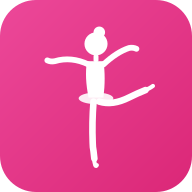
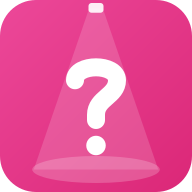
chore(fix): loading after logging in

diff --git a/src/hooks/useLiveTracker.js b/src/hooks/useLiveTracker.js
@@ -4,7 +4,7 @@ import {
   collection, query, where, getDocs, doc, setDoc, onSnapshot
 } from 'firebase/firestore';
 
-export function useLiveTracker(orgId, selectedShowId) {
+export function useLiveTracker(orgId, selectedShowId, enabled = true) {
   const [recitalData, setRecitalData] = useState(null);
   const [currentAct, setCurrentAct] = useState({ number: null, title: '', isTracking: false });
   const [loading, setLoading] = useState(true);
@@ -20,6 +20,19 @@ export function useLiveTracker(orgId, selectedShowId) {
       setRecitalData(null);
       setLoading(false);
       actsCache.current = {};
+      return;
+    }
+
+    // Firestore rules now gate shows/acts reads behind `request.auth != null`.
+    // Subscribing before sign-in completes gets a permission-denied that
+    // onSnapshot never recovers from (the [orgId] dep doesn't re-run on login),
+    // stranding the UI on an infinite spinner. `enabled` (auth-ready) holds the
+    // subscription until the user is authenticated; clearing it on logout drops
+    // the previous studio's data so it can't leak into a re-login.
+    if (!enabled) {
+      setRecitalData(null);
+      actsCache.current = {};
+      setLoading(true);
       return;
     }
 
@@ -109,10 +122,16 @@ export function useLiveTracker(orgId, selectedShowId) {
       } finally {
         setLoading(false);
       }
+    }, (err) => {
+      // Listener rejected (e.g. permission-denied before any snapshot). Without
+      // this handler the success callback never fires and `loading` stays true
+      // forever — the infinite-spinner bug. Resolve loading so the UI can render.
+      console.error("Firestore Program subscription error:", err);
+      setLoading(false);
     });
 
     return () => unsubShows();
-  }, [orgId]);
+  }, [orgId, enabled]);
 
   // 2. Listen for "Now Performing" status for the specific show
   useEffect(() => {
@@ -138,6 +157,9 @@ export function useLiveTracker(orgId, selectedShowId) {
         title: act ? act.title : 'Act not found',
         isTracking: statusData.is_tracking || false
       });
+    }, (err) => {
+      // Non-critical: a rejected status listener just leaves currentAct stale.
+      console.warn("Firestore Status subscription error:", err?.message || err);
     });
 
     return () => unsubStatus();

diff --git a/src/components/BrandMark.jsx b/src/components/BrandMark.jsx
@@ -1,0 +1,39 @@
+import React from 'react';
+
+// Brand mark — the "What Number Are We On?" spotlight question-mark logo.
+// Single in-app source of truth for the logo; keep in sync with public/favicon.svg.
+// Path-based (no fonts) so it rasterizes identically everywhere. Size via
+// className (e.g. "w-20 h-20"); the rounded corners come from the SVG itself.
+export default function BrandMark({ className = '', title = 'What Number Are We On?' }) {
+  return (
+    <svg
+      viewBox="0 0 512 512"
+      className={className}
+      role="img"
+      aria-label={title}
+      xmlns="http://www.w3.org/2000/svg"
+    >
+      <defs>
+        <linearGradient id="brandMarkBg" x1="0%" y1="0%" x2="100%" y2="100%">
+          <stop offset="0%" stopColor="#ec4899" />
+          <stop offset="100%" stopColor="#db2777" />
+        </linearGradient>
+      </defs>
+      <rect width="512" height="512" rx="96" fill="url(#brandMarkBg)" />
+      {/* Spotlight beam + pool of light */}
+      <polygon points="238,22 274,22 422,452 90,452" fill="#ffffff" opacity="0.16" />
+      <ellipse cx="256" cy="452" rx="170" ry="36" fill="#ffffff" opacity="0.20" />
+      <rect x="236" y="8" width="40" height="26" rx="8" fill="#ffffff" opacity="0.9" />
+      {/* Question mark — "what number is up next?" */}
+      <path
+        d="M200 214 C200 168 312 168 312 214 C312 256 256 262 256 306 L256 320"
+        fill="none"
+        stroke="#ffffff"
+        strokeWidth="48"
+        strokeLinecap="round"
+        strokeLinejoin="round"
+      />
+      <circle cx="256" cy="388" r="26" fill="#ffffff" />
+    </svg>
+  );
+}

diff --git a/src/components/LoginScreen.jsx b/src/components/LoginScreen.jsx
@@ -1,5 +1,6 @@
 import React, { useState } from 'react';
-import { Music, ChevronDown, AlertCircle } from 'lucide-react';
+import { ChevronDown, AlertCircle } from 'lucide-react';
+import BrandMark from './BrandMark';
 import { auth, googleProvider } from '../firebase';
 import { signInWithPopup, signInWithEmailAndPassword, createUserWithEmailAndPassword } from 'firebase/auth';
 import { getAuthErrorMessage } from '../utils/authErrors';
@@ -30,9 +31,7 @@ export default function LoginScreen({ onSkip }) {
       <div className="w-full max-w-md animate-in fade-in slide-in-from-bottom-4 duration-700">
 
         <div className="text-center mb-8">
-          <div className="w-20 h-20 bg-brand-100 dark:bg-brand-900/30 text-brand-700 dark:text-brand-300 rounded-full flex items-center justify-center mx-auto mb-6">
-            <Music size={36} />
-          </div>
+          <BrandMark className="w-20 h-20 mx-auto mb-6 shadow-lg shadow-brand-500/20" />
           <h1 className="font-display text-5xl font-medium italic text-ink-900 dark:text-white tracking-tight mb-3 leading-none">
             Welcome
           </h1>

diff --git a/src/App.jsx b/src/App.jsx
@@ -61,11 +61,14 @@ export default function App() {
   // 2. Initialize show locally from URL (for deep links)
   const [selectedShow, setSelectedShow] = useState(() => searchParams.get('show') || '');
 
-  // 3. Track Live Data
+  // 3. Track Live Data — hold the Firestore subscription until auth is ready.
+  // When LOGIN_REQUIRED, shows/acts reads need an authenticated token; firing
+  // the listener before sign-in gets a permission-denied it never recovers from.
+  const dataAccessReady = !LOGIN_REQUIRED || !!user;
   const {
     recitalData, currentAct, loading, liveShowId,
     setRecitalData, invalidateActsCache, updateActNumber, toggleTracking
-  } = useLiveTracker(orgId, selectedShow);
+  } = useLiveTracker(orgId, selectedShow, dataAccessReady);
 
   // 4. Handle deep-linked Organization (only on initial load).
   // Single-studio mode ignores ?org= — the tenant is resolved by AppContext.

diff --git a/src/__tests__/useLiveTracker.test.js b/src/__tests__/useLiveTracker.test.js
@@ -319,4 +319,21 @@ describe('useLiveTracker', () => {
     unmount();
     expect(unsubMock).toHaveBeenCalledTimes(1);
   });
+
+  it('does not subscribe while disabled (auth not ready), then subscribes once enabled', () => {
+    const { result, rerender } = renderHook(
+      ({ enabled }) => useLiveTracker('org1', null, enabled),
+      { initialProps: { enabled: false } }
+    );
+
+    // Gated off: no listener, but loading stays true so the UI doesn't flash
+    // empty content before the real subscription resolves.
+    expect(onSnapshot).not.toHaveBeenCalled();
+    expect(result.current.loading).toBe(true);
+    expect(result.current.recitalData).toBeNull();
+
+    // Auth becomes ready → the listener subscribes.
+    rerender({ enabled: true });
+    expect(onSnapshot).toHaveBeenCalledTimes(1);
+  });
 });

diff --git a/index.html b/index.html
@@ -18,7 +18,7 @@
       href="https://fonts.googleapis.com/css2?family=Fraunces:opsz,wght@9..144,500;9..144,700;9..144,900&family=Inter:wght@400;500;600;700;800&display=swap"
     />
 
-    <title>Dance Recital Tracker</title>
+    <title>What Number Are We On?</title>
   </head>
   <body>
     <div id="root"></div>
